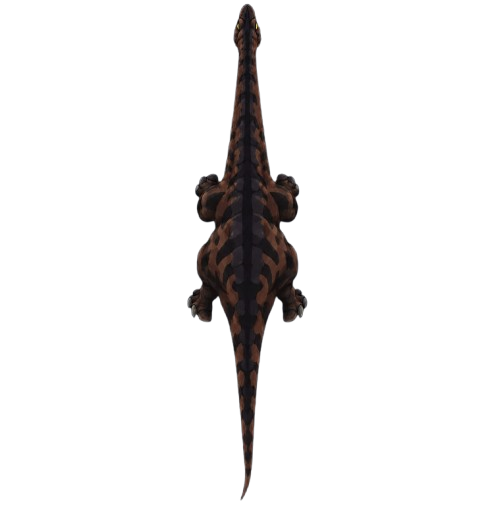
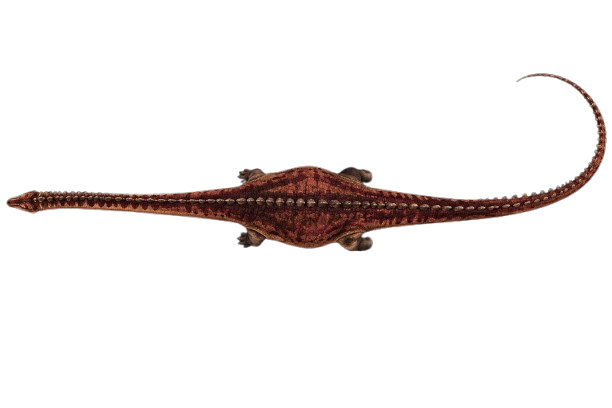
Atualiza sprites do Carnotauro e Titanossauro

Changed region(s): [[0.0, 0.0, 1.0, 1.0], [0.8502, 0.1765, 0.9413, 0.2059], [0.9413, 0.2059, 0.9717, 0.2647]]

diff --git a/games/cv-starfall/game.js b/games/cv-starfall/game.js
@@ -179,7 +179,7 @@
   const saurionCreatures = Object.freeze([
     { id:'spinosaurus', name:'Espinossauro', role:'controle e caça', radius:30, visualScale:5, duration:22, attack:2, kind:'spino' },
     { id:'triceratops', name:'Tricerátops', role:'aríete e provocação', radius:33, visualScale:5, duration:22, attack:2, kind:'trike' },
-    { id:'titanosaur', name:'Titanossauro', role:'suporte e ondas sísmicas', radius:39, visualScale:5.55, duration:22, attack:6, kind:'titan' },
+    { id:'titanosaur', name:'Titanossauro', role:'suporte e ondas sísmicas', radius:39, visualScale:8.5, duration:22, attack:6, kind:'titan' },
     { id:'tyrannosaurus', name:'Tiranossauro Rex', role:'dano focado e fúria', radius:34, visualScale:5.25, duration:22, attack:1.5, kind:'rex' },
     { id:'carnotaurus', name:'Carnotauro', role:'perseguição e investida', radius:29, visualScale:4.55, duration:22, attack:.5, kind:'carno' },
     { id:'ankylosaurus', name:'Anquilossauro', role:'defesa e impacto', radius:33, visualScale:4.95, duration:22, attack:2.8, kind:'ankyl' },
@@ -2432,6 +2432,7 @@
       image.src = saurionDinoSprites[creature.id]?.src || '';
       image.alt = '';
       image.loading = 'lazy';
+      if (creature.kind === 'titan') image.classList.add('starfall-saurion-sideways-dino');
       const name = document.createElement('span');
       name.textContent = creature.name;
       button.append(image, name);
@@ -7378,14 +7379,16 @@
     for (const summon of summons) {
       const image = saurionDinoSprites[summon.id];
       const fade = clamp(summon.life / .5, 0, 1);
-      ctx.save(); ctx.translate(summon.x, summon.y); ctx.rotate((summon.angle ?? -Math.PI / 2) - Math.PI / 2);
+      ctx.save(); ctx.translate(summon.x, summon.y); ctx.rotate((summon.angle ?? -Math.PI / 2) - Math.PI / 2 + (summon.kind === 'titan' ? -Math.PI / 2 : 0));
       const height = mobileSize(summon.radius * (summon.visualScale || 4.6));
       ctx.globalCompositeOperation = 'source-over'; ctx.globalAlpha = fade;
       if (image?.complete && image.naturalWidth) {
-        const width = height * image.naturalWidth / image.naturalHeight;
+        const aspect = image.naturalWidth / image.naturalHeight;
+        const width = summon.kind === 'titan' ? height : height * aspect;
+        const drawHeight = summon.kind === 'titan' ? height / aspect : height;
         ctx.globalAlpha = fade * .98; ctx.filter = summon.kind === 'titan' ? 'brightness(1.34) saturate(1.18)' : 'brightness(1.12) saturate(1.1)';
         ctx.shadowColor = 'transparent'; ctx.shadowBlur = 0;
-        ctx.drawImage(image, -width / 2, -height / 2, width, height);
+        ctx.drawImage(image, -width / 2, -drawHeight / 2, width, drawHeight);
       } else {
         ctx.filter = 'none'; ctx.fillStyle = '#2c4c21'; ctx.strokeStyle = '#a2ff56'; ctx.lineWidth = mobileSize(2);
         ctx.beginPath(); ctx.moveTo(0, -height * .48); ctx.lineTo(height * .25, height * .3); ctx.lineTo(0, height * .48); ctx.lineTo(-height * .25, height * .3); ctx.closePath(); ctx.fill(); ctx.stroke();

diff --git a/games/cv-starfall/game.css b/games/cv-starfall/game.css
@@ -821,6 +821,7 @@ body[data-cv-starfall-state="playing"] .starfall-primary-ability[aria-pressed="t
 .starfall-saurion-dino-list { display:grid; grid-template-columns:repeat(auto-fit,minmax(9.2rem,1fr)); gap:.45rem; }
 .starfall-saurion-dino-option { display:flex; align-items:center; gap:.55rem; min-height:3.35rem; padding:.42rem .55rem; border:1px solid rgba(145,180,205,.2); border-radius:.75rem; background:rgba(13,25,43,.75); color:#dce9f6; text-align:left; font:inherit; font-size:.69rem; font-weight:850; cursor:pointer; transition:border-color .16s ease,background .16s ease,transform .16s ease; }
 .starfall-saurion-dino-option img { flex:0 0 auto; width:2rem; height:2rem; object-fit:contain; filter:drop-shadow(0 0 .35rem rgba(165,255,121,.18)); }
+.starfall-saurion-dino-option img.starfall-saurion-sideways-dino { transform:rotate(-90deg); }
 .starfall-saurion-dino-option:hover,.starfall-saurion-dino-option:focus-visible { border-color:rgba(167,255,121,.58); outline:2px solid rgba(167,255,121,.25); outline-offset:1px; }
 .starfall-saurion-dino-option[aria-pressed="true"] { border-color:#a7ff79; background:linear-gradient(135deg,rgba(77,135,57,.32),rgba(17,37,53,.88)); box-shadow:inset 0 0 1rem rgba(124,229,83,.08); }
 .starfall-saurion-dino-info { padding:.75rem .8rem; border:1px solid rgba(132,228,94,.28); border-radius:.8rem; background:rgba(99,153,68,.1); }
